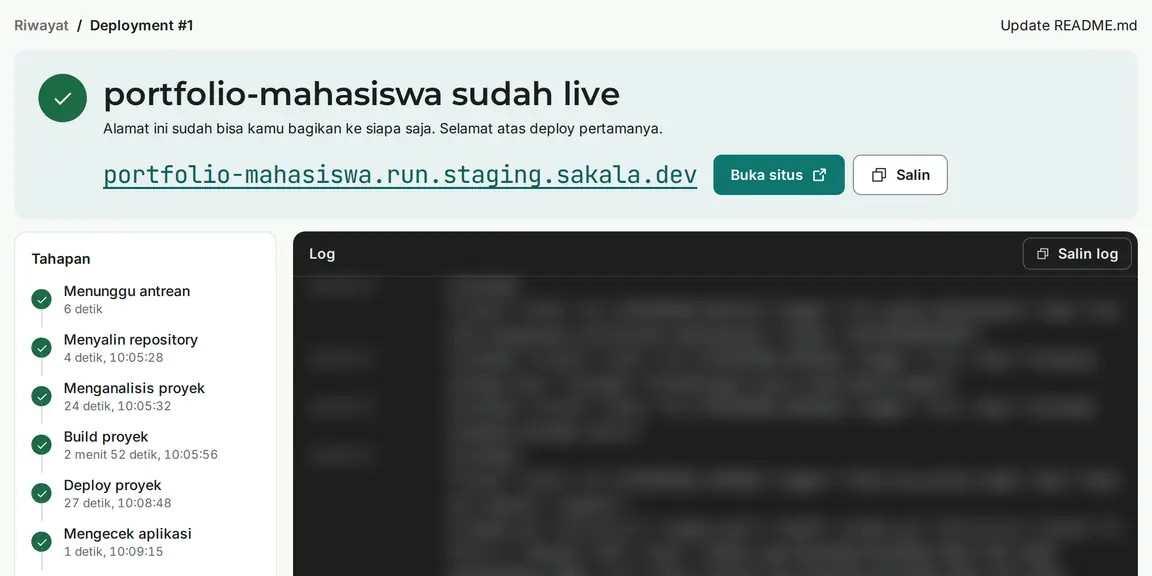
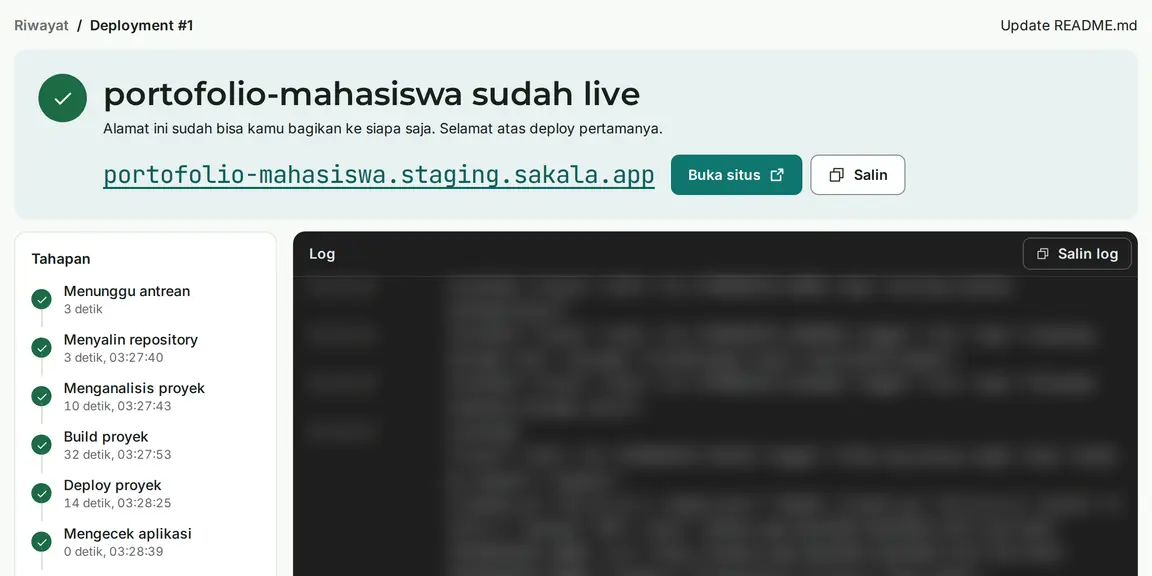
fix(console-auth): use a current staging capture in the login panel
The side panel screenshot showed a staging address on a domain that no
longer serves. It is replaced by a fresh capture of a demo project's
first deployment going live at portofolio-mahasiswa.staging.sakala.app,
cropped to the content column with the log blurred, at the same size
(WebP, 1152x576). The alt text names the new project.

diff --git a/src/lib/features/auth/components/AuthProductShot.svelte b/src/lib/features/auth/components/AuthProductShot.svelte
@@ -24,7 +24,7 @@
 		width={SHOT_WIDTH}
 		height={SHOT_HEIGHT}
 		decoding="async"
-		alt="Layar Sakala Console setelah deploy pertama berhasil: judul portfolio-mahasiswa sudah live, alamat publiknya dengan tombol Buka situs dan Salin, tahapan deployment yang semuanya selesai, dan panel log yang diburamkan."
+		alt="Layar Sakala Console setelah deploy pertama berhasil: judul portofolio-mahasiswa sudah live, alamat publiknya dengan tombol Buka situs dan Salin, tahapan deployment yang semuanya selesai, dan panel log yang diburamkan."
 		class="block h-auto w-full bg-background"
 	/>
 </figure>
